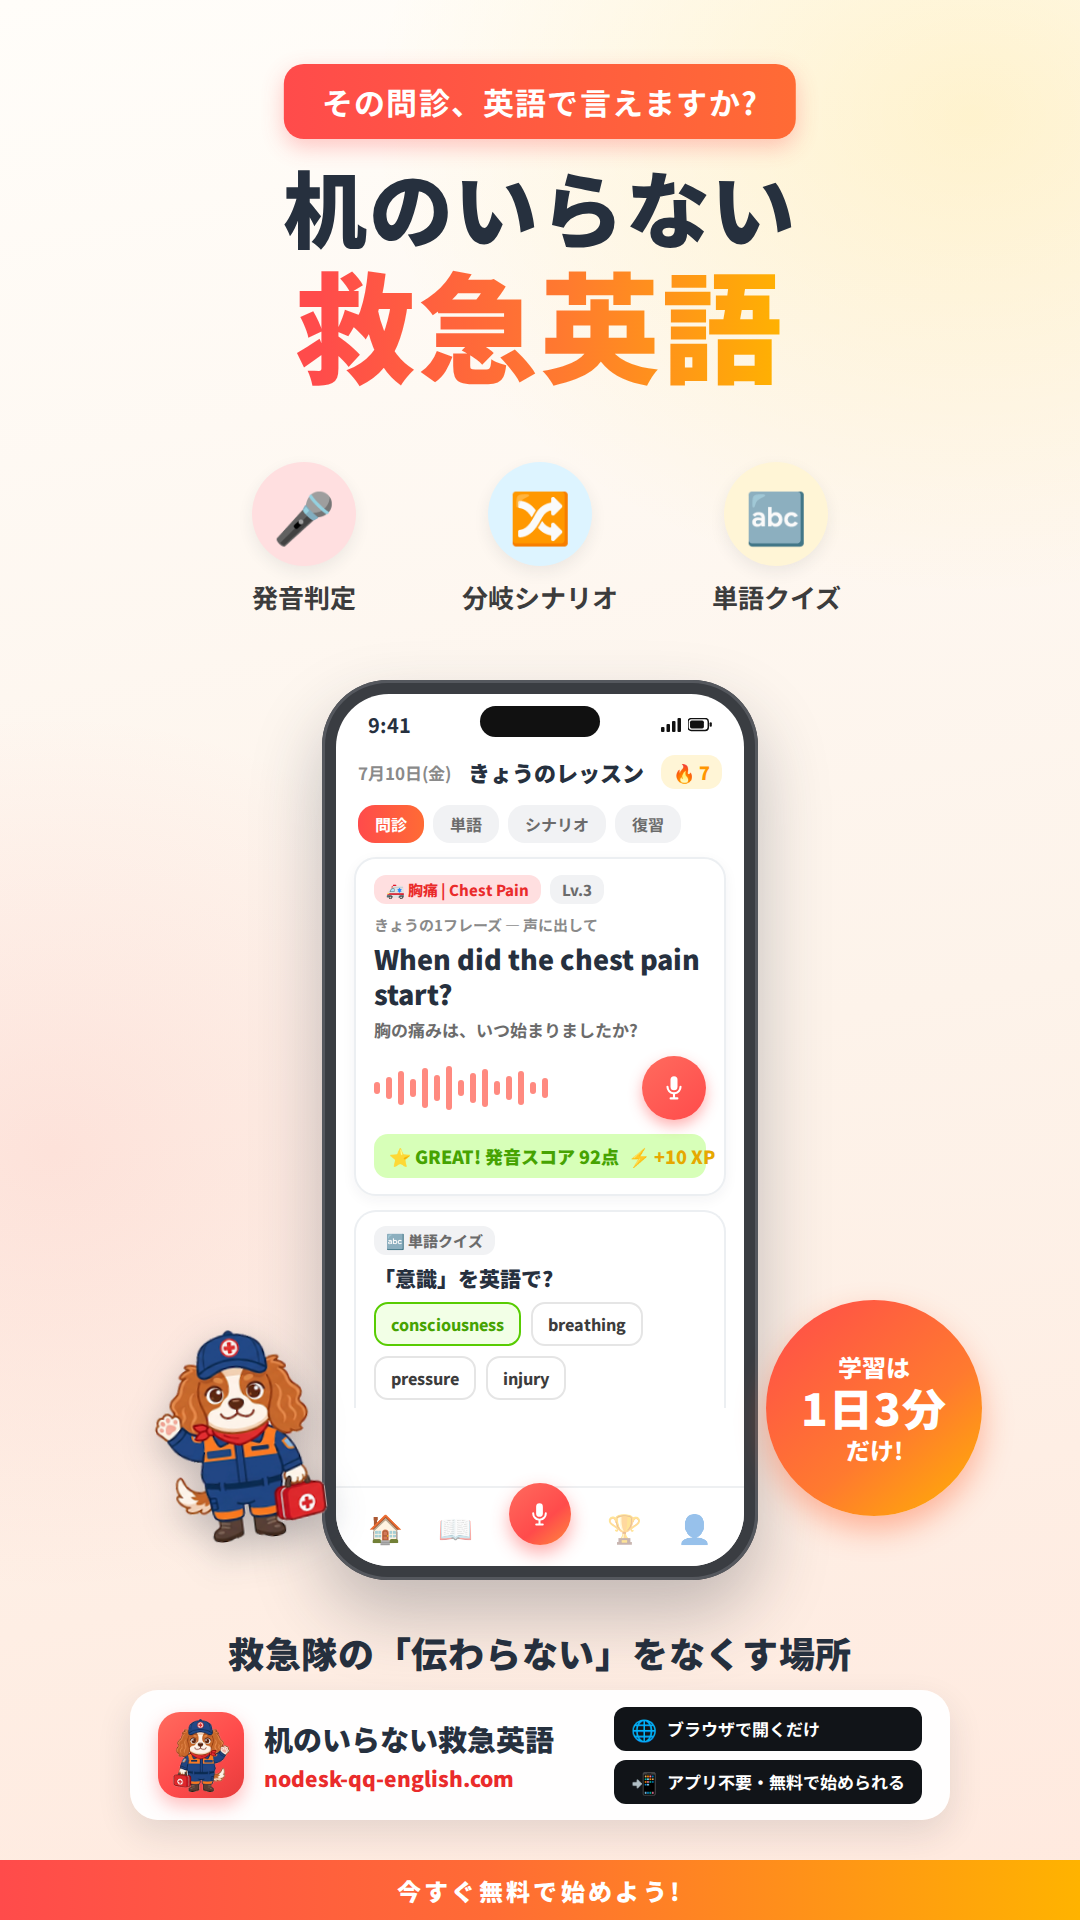
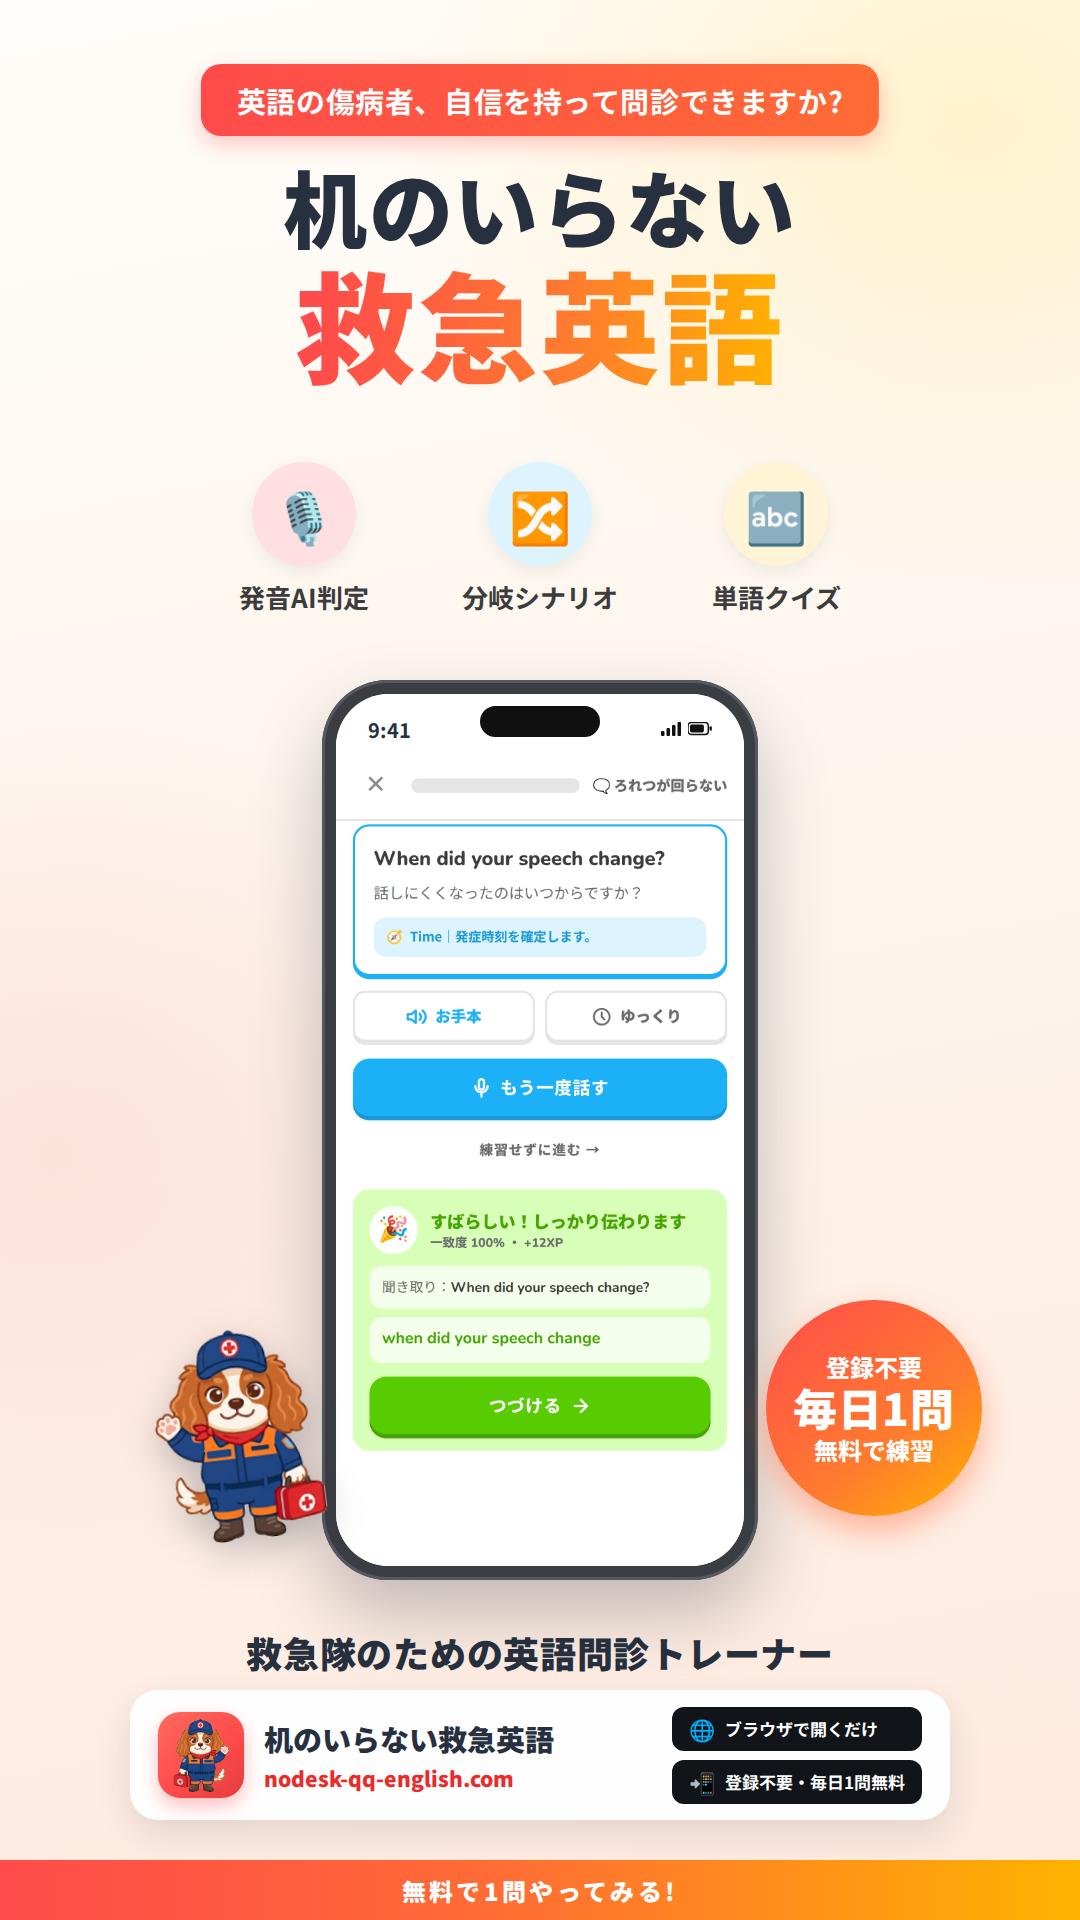
宣伝画像のスマホ画面を実アプリのスクリーンショットに差し替え
- Playwrightで実アプリ(トレーナー/ホーム/単語クイズ)を撮影し、
  モックアップではなく本物のUIを表示(発音判定成功画面・一致度100%)
- コピーをアプリ/LPの実文言に統一(「英語の傷病者、自信を持って
  問診できますか?」「傷病者の返答」「登録不要・毎日1問無料」
  「OPQRST・SAMPLEの型」「レベル別パス全10段階」等)
- 撮り直し手順をREADMEに記載

Claude-Session: https://claude.ai/code/session_01L5C1J8Vtmn3Ar3aXN2XYS3

diff --git a/marketing/promo/promo-square.html b/marketing/promo/promo-square.html
@@ -28,8 +28,8 @@
   .pill {
     position:absolute; top:44px; left:52px;
     background:linear-gradient(90deg,#ff4b4b,#ff6b35);
-    color:#fff; font-size:25px; font-weight:700; letter-spacing:.04em;
-    padding:12px 28px; border-radius:16px;
+    color:#fff; font-size:23px; font-weight:700; letter-spacing:.02em;
+    padding:12px 26px; border-radius:16px;
     box-shadow:0 8px 22px rgba(255,75,75,.30);
   }
 
@@ -64,7 +64,7 @@
     box-shadow:0 14px 34px rgba(38,48,62,.10);
     padding:14px 22px 0;
   }
-  .cta .lead { text-align:center; font-size:26px; font-weight:900; letter-spacing:.05em; margin-bottom:10px; }
+  .cta .lead { text-align:center; font-size:26px; font-weight:900; letter-spacing:.04em; margin-bottom:10px; }
   .cta .row { display:flex; align-items:center; gap:14px; }
   .cta .icon {
     width:74px; height:74px; border-radius:19px; flex:0 0 auto;
@@ -84,7 +84,7 @@
   .badge .bi { font-size:19px; }
   .badge .bt { font-size:15px; font-weight:700; white-space:nowrap; }
 
-  /* ── phone mockup ─────────────────────── */
+  /* ── phone mockup(実アプリのスクリーンショットを表示) ── */
   .phone {
     position:absolute; top:46px; left:650px; width:388px; height:800px;
     background:#3a3d42; border-radius:60px; padding:13px;
@@ -98,50 +98,8 @@
     position:absolute; top:11px; left:50%; transform:translateX(-50%);
     width:108px; height:28px; background:#111; border-radius:15px; z-index:9;
   }
-  .status { display:flex; justify-content:space-between; align-items:center; padding:14px 28px 2px; font-size:18px; font-weight:700; }
-  .apphead { display:flex; justify-content:space-between; align-items:center; padding:12px 20px 6px; }
-  .apphead .date { font-size:15px; font-weight:700; color:#8a8a8a; }
-  .apphead .title { font-size:20px; font-weight:900; }
-  .apphead .streak { font-size:16px; font-weight:900; color:#ff9600; background:#fff5d6; border-radius:13px; padding:3px 11px; }
-  .chips { display:flex; gap:8px; padding:6px 20px 10px; }
-  .chip { font-size:14px; font-weight:700; color:#6b6b6b; background:#f1f2f4; border-radius:15px; padding:6px 15px; }
-  .chip.on { color:#fff; background:linear-gradient(90deg,#ff4b4b,#ff6b35); }
-
-  .card { margin:2px 16px 12px; border:2px solid #eceff2; border-radius:20px; padding:14px 16px; box-shadow:0 4px 14px rgba(38,48,62,.05); background:#fff; }
-  .tags { display:flex; gap:8px; align-items:center; margin-bottom:9px; }
-  .tag-red { font-size:13px; font-weight:800; color:#ea2b2b; background:#ffdfe0; border-radius:11px; padding:3px 11px; }
-  .tag-gray { font-size:13px; font-weight:800; color:#6b6b6b; background:#f1f2f4; border-radius:11px; padding:3px 11px; }
-  .label { font-size:13px; font-weight:700; color:#8a8a8a; margin-bottom:5px; }
-  .en { font-size:24px; font-weight:900; line-height:1.3; }
-  .jp { font-size:15px; font-weight:700; color:#6b6b6b; margin-top:5px; }
-  .microw { display:flex; align-items:center; gap:12px; margin-top:12px; }
-  .wave { display:flex; align-items:center; gap:5px; flex:1; }
-  .wave i { display:block; width:5px; border-radius:3px; background:#ff8a80; }
-  .mic {
-    width:56px; height:56px; border-radius:50%; flex:0 0 auto;
-    background:linear-gradient(140deg,#ff6b5e,#ff4b4b); display:flex; align-items:center; justify-content:center;
-    box-shadow:0 6px 14px rgba(255,75,75,.42);
-  }
-  .score { margin-top:12px; background:#d7ffb8; border-radius:13px; padding:8px 13px; display:flex; align-items:center; gap:8px; font-size:16px; font-weight:900; color:#46a302; white-space:nowrap; }
-  .score .xp { margin-left:auto; color:#e6a800; }
-
-  .card2 { margin:0 16px; border:2px solid #eceff2; border-radius:20px 20px 0 0; border-bottom:none; padding:12px 16px 6px; }
-  .opts { display:flex; gap:9px; margin-top:9px; }
-  .opt { font-size:14px; font-weight:800; border:2px solid #e5e5e5; border-radius:13px; padding:7px 13px; color:#3c3c3c; white-space:nowrap; }
-  .opt.ok { border-color:#58cc02; color:#46a302; background:#f2ffe6; }
-
-  .nav {
-    position:absolute; bottom:0; left:0; right:0; height:72px; background:#fff;
-    border-top:2px solid #eef0f2; display:flex; align-items:center; justify-content:space-around; padding:0 12px;
-  }
-  .nav .ic { font-size:25px; opacity:.45; }
-  .nav .ic.on { opacity:1; }
-  .nav .plus {
-    width:56px; height:56px; border-radius:50%; margin-top:-24px;
-    background:linear-gradient(140deg,#ff6b5e,#ff4b4b 60%,#ff8a3d);
-    display:flex; align-items:center; justify-content:center;
-    box-shadow:0 8px 18px rgba(255,75,75,.45);
-  }
+  .sbar { height:50px; display:flex; justify-content:space-between; align-items:center; padding:12px 28px 0; font-size:18px; font-weight:700; background:#fff; }
+  .shot { display:block; width:362px; height:724px; object-fit:cover; object-position:top; }
 
   /* ── circle badge & mascot ────────────── */
   .bubble {
@@ -176,7 +134,7 @@
 </head>
 <body>
 
-  <div class="pill">その問診、英語で言えますか?</div>
+  <div class="pill">英語の傷病者、自信を持って問診できますか?</div>
 
   <div class="headline">
     <div class="l1">机のいらない</div>
@@ -184,23 +142,23 @@
   </div>
 
   <div class="feats">
-    <div class="feat"><div class="c">🎤</div><div class="t">発音判定</div></div>
+    <div class="feat"><div class="c">🎙️</div><div class="t">発音AI判定</div></div>
     <div class="feat"><div class="c">🔀</div><div class="t">分岐シナリオ</div></div>
     <div class="feat"><div class="c">🔤</div><div class="t">単語クイズ</div></div>
   </div>
 
-  <div class="sub">救急隊の「伝わらない」をなくす場所</div>
+  <div class="sub">救急隊のための英語問診トレーナー</div>
 
   <div class="checks">
-    <div class="check"><svg width="25" height="25" viewBox="0 0 26 26"><path d="M4 14 L10 20 L22 6" stroke="#ff4b4b" stroke-width="4.5" fill="none" stroke-linecap="round" stroke-linejoin="round"/></svg>英語の問診を音読 → AIが発音を採点</div>
-    <div class="check"><svg width="25" height="25" viewBox="0 0 26 26"><path d="M4 14 L10 20 L22 6" stroke="#ff4b4b" stroke-width="4.5" fill="none" stroke-linecap="round" stroke-linejoin="round"/></svg>患者の返答で変わる分岐シナリオ</div>
-    <div class="check"><svg width="25" height="25" viewBox="0 0 26 26"><path d="M4 14 L10 20 L22 6" stroke="#ff4b4b" stroke-width="4.5" fill="none" stroke-linecap="round" stroke-linejoin="round"/></svg>救急の英単語405語を4択クイズで</div>
-    <div class="check"><svg width="25" height="25" viewBox="0 0 26 26"><path d="M4 14 L10 20 L22 6" stroke="#ff4b4b" stroke-width="4.5" fill="none" stroke-linecap="round" stroke-linejoin="round"/></svg>Lv1〜10、クリアで次のレベル解放</div>
-    <div class="check"><svg width="25" height="25" viewBox="0 0 26 26"><path d="M4 14 L10 20 L22 6" stroke="#ff4b4b" stroke-width="4.5" fill="none" stroke-linecap="round" stroke-linejoin="round"/></svg>ストリーク・バッジ・学習カレンダー</div>
+    <div class="check"><svg width="25" height="25" viewBox="0 0 26 26"><path d="M4 14 L10 20 L22 6" stroke="#ff4b4b" stroke-width="4.5" fill="none" stroke-linecap="round" stroke-linejoin="round"/></svg>英語の問診を音読、発音はAIが自動判定</div>
+    <div class="check"><svg width="25" height="25" viewBox="0 0 26 26"><path d="M4 14 L10 20 L22 6" stroke="#ff4b4b" stroke-width="4.5" fill="none" stroke-linecap="round" stroke-linejoin="round"/></svg>OPQRST・SAMPLEの型で300シナリオ</div>
+    <div class="check"><svg width="25" height="25" viewBox="0 0 26 26"><path d="M4 14 L10 20 L22 6" stroke="#ff4b4b" stroke-width="4.5" fill="none" stroke-linecap="round" stroke-linejoin="round"/></svg>傷病者の返答で変わる分岐シナリオ</div>
+    <div class="check"><svg width="25" height="25" viewBox="0 0 26 26"><path d="M4 14 L10 20 L22 6" stroke="#ff4b4b" stroke-width="4.5" fill="none" stroke-linecap="round" stroke-linejoin="round"/></svg>救急単語405語・忘却曲線で復習</div>
+    <div class="check"><svg width="25" height="25" viewBox="0 0 26 26"><path d="M4 14 L10 20 L22 6" stroke="#ff4b4b" stroke-width="4.5" fill="none" stroke-linecap="round" stroke-linejoin="round"/></svg>レベル別パス・ストリークで毎日続く</div>
   </div>
 
   <div class="cta">
-    <div class="lead"><span class="grad-text">今すぐ無料で始めよう!</span></div>
+    <div class="lead"><span class="grad-text">無料で1問やってみる!</span></div>
     <div class="row">
       <div class="icon"><img src="../../logo.png" alt=""></div>
       <div class="name">
@@ -209,7 +167,7 @@
       </div>
       <div class="badges">
         <div class="badge"><span class="bi">🌐</span><span class="bt">ブラウザで開くだけ</span></div>
-        <div class="badge"><span class="bi">📲</span><span class="bt">アプリ不要・無料</span></div>
+        <div class="badge"><span class="bi">📲</span><span class="bt">登録不要・アプリ不要</span></div>
       </div>
     </div>
   </div>
@@ -217,58 +175,24 @@
   <div class="phone">
     <div class="screen">
       <div class="notch"></div>
-      <div class="status">
+      <div class="sbar">
         <span>9:41</span>
         <span style="display:flex;gap:7px;align-items:center;">
           <svg width="20" height="14" viewBox="0 0 20 14"><rect x="0" y="9" width="3.5" height="5" rx="1" fill="#111"/><rect x="5.5" y="6" width="3.5" height="8" rx="1" fill="#111"/><rect x="11" y="3" width="3.5" height="11" rx="1" fill="#111"/><rect x="16.5" y="0" width="3.5" height="14" rx="1" fill="#111"/></svg>
           <svg width="24" height="14" viewBox="0 0 26 14"><rect x="0" y="0" width="22" height="13" rx="3.5" stroke="#111" stroke-width="1.6" fill="none"/><rect x="2.2" y="2.2" width="15" height="8.6" rx="1.8" fill="#111"/><rect x="23.4" y="4" width="2.4" height="5" rx="1.2" fill="#111"/></svg>
         </span>
       </div>
-      <div class="apphead">
-        <span class="date">7月10日(金)</span>
-        <span class="title">きょうのレッスン</span>
-        <span class="streak">🔥 7</span>
-      </div>
-      <div class="chips">
-        <span class="chip on">問診</span><span class="chip">単語</span><span class="chip">シナリオ</span><span class="chip">復習</span>
-      </div>
-
-      <div class="card">
-        <div class="tags"><span class="tag-red">🚑 胸痛 | Chest Pain</span><span class="tag-gray">Lv.3</span></div>
-        <div class="label">きょうの1フレーズ — 声に出して</div>
-        <div class="en">When did the chest pain start?</div>
-        <div class="jp">胸の痛みは、いつ始まりましたか?</div>
-        <div class="microw">
-          <div class="wave">
-            <i style="height:11px"></i><i style="height:20px"></i><i style="height:31px"></i><i style="height:17px"></i><i style="height:37px"></i><i style="height:24px"></i><i style="height:41px"></i><i style="height:15px"></i><i style="height:28px"></i><i style="height:35px"></i><i style="height:13px"></i><i style="height:22px"></i><i style="height:31px"></i><i style="height:11px"></i><i style="height:18px"></i>
-          </div>
-          <div class="mic"><svg width="26" height="26" viewBox="0 0 24 24" fill="#fff"><path d="M12 14a3 3 0 0 0 3-3V5a3 3 0 0 0-6 0v6a3 3 0 0 0 3 3z"/><path d="M18.5 11a.9.9 0 0 0-1.8 0 4.7 4.7 0 0 1-9.4 0 .9.9 0 0 0-1.8 0 6.5 6.5 0 0 0 5.6 6.4V20h-2a.9.9 0 1 0 0 1.8h5.8a.9.9 0 1 0 0-1.8h-2v-2.6A6.5 6.5 0 0 0 18.5 11z"/></svg></div>
-        </div>
-        <div class="score">⭐ GREAT! スコア92点 <span class="xp">⚡ +10 XP</span></div>
-      </div>
-
-      <div class="card2">
-        <div class="tags"><span class="tag-gray">🔤 単語クイズ</span></div>
-        <div class="en" style="font-size:19px;">「意識」を英語で?</div>
-        <div class="opts"><span class="opt ok">consciousness</span><span class="opt">breathing</span></div>
-        <div class="opts"><span class="opt">pressure</span><span class="opt">injury</span></div>
-      </div>
-
-      <div class="nav">
-        <span class="ic on">🏠</span><span class="ic">📖</span>
-        <span class="plus"><svg width="25" height="25" viewBox="0 0 24 24" fill="#fff"><path d="M12 14a3 3 0 0 0 3-3V5a3 3 0 0 0-6 0v6a3 3 0 0 0 3 3z"/><path d="M18.5 11a.9.9 0 0 0-1.8 0 4.7 4.7 0 0 1-9.4 0 .9.9 0 0 0-1.8 0 6.5 6.5 0 0 0 5.6 6.4V20h-2a.9.9 0 1 0 0 1.8h5.8a.9.9 0 1 0 0-1.8h-2v-2.6A6.5 6.5 0 0 0 18.5 11z"/></svg></span>
-        <span class="ic">🏆</span><span class="ic">👤</span>
-      </div>
+      <img class="shot" src="screens/judge.png" alt="">
     </div>
   </div>
 
   <img class="mascot" src="../../logo.png" alt="">
-  <div class="bubble"><span class="s">学習は</span><span class="b">1日3分</span><span class="s">だけ!</span></div>
+  <div class="bubble"><span class="s">登録不要</span><span class="b">毎日1問</span><span class="s">無料で練習</span></div>
 
   <div class="band">
-    <div class="col"><span class="ci">🎤</span><span class="ct"><span class="t">机がなくても<br>声だけで練習</span><span class="s">現場想定の問診を音読</span></span></div>
-    <div class="col"><span class="ci">🔥</span><span class="ct"><span class="t">ゲーム感覚で<br>毎日続く</span><span class="s">ストリーク・XP・バッジ</span></span></div>
-    <div class="col"><span class="ci">📶</span><span class="ct"><span class="t">オフラインでも<br>使える</span><span class="s">ブラウザだけ・記録は端末に</span></span></div>
+    <div class="col"><span class="ci">🎙️</span><span class="ct"><span class="t">発音はAIが<br>自動判定</span><span class="s">マイクなしでもスキップOK</span></span></div>
+    <div class="col"><span class="ci">🪜</span><span class="ct"><span class="t">レベル別パス<br>全10段階</span><span class="s">クリアで次のレベルが解放</span></span></div>
+    <div class="col"><span class="ci">📱</span><span class="ct"><span class="t">スマホだけで<br>完結</span><span class="s">ブラウザで開くだけ・PWA対応</span></span></div>
   </div>
 
 </body>

diff --git a/marketing/promo/promo-story.html b/marketing/promo/promo-story.html
@@ -27,8 +27,8 @@
   .pill {
     position:absolute; top:64px; left:50%; transform:translateX(-50%);
     background:linear-gradient(90deg,#ff4b4b,#ff6b35);
-    color:#fff; font-size:31px; font-weight:700; letter-spacing:.04em;
-    padding:15px 38px; border-radius:20px; white-space:nowrap;
+    color:#fff; font-size:29px; font-weight:700; letter-spacing:.02em;
+    padding:15px 36px; border-radius:20px; white-space:nowrap;
     box-shadow:0 8px 22px rgba(255,75,75,.30);
   }
 
@@ -48,7 +48,7 @@
   .feat:nth-child(3) .c { background:#fff5d6; }
   .feat .t { font-size:26px; font-weight:700; color:#3c3c3c; white-space:nowrap; }
 
-  /* ── phone mockup ─────────────────────── */
+  /* ── phone mockup(実アプリのスクリーンショットを表示) ── */
   .phone {
     position:absolute; top:680px; left:322px; width:436px; height:900px;
     background:#3a3d42; border-radius:66px; padding:14px;
@@ -60,50 +60,8 @@
     position:absolute; top:12px; left:50%; transform:translateX(-50%);
     width:120px; height:31px; background:#111; border-radius:16px; z-index:9;
   }
-  .status { display:flex; justify-content:space-between; align-items:center; padding:16px 32px 2px; font-size:20px; font-weight:700; }
-  .apphead { display:flex; justify-content:space-between; align-items:center; padding:14px 22px 8px; }
-  .apphead .date { font-size:17px; font-weight:700; color:#8a8a8a; }
-  .apphead .title { font-size:22px; font-weight:900; }
-  .apphead .streak { font-size:18px; font-weight:900; color:#ff9600; background:#fff5d6; border-radius:14px; padding:4px 12px; }
-  .chips { display:flex; gap:9px; padding:8px 22px 12px; }
-  .chip { font-size:16px; font-weight:700; color:#6b6b6b; background:#f1f2f4; border-radius:17px; padding:7px 17px; }
-  .chip.on { color:#fff; background:linear-gradient(90deg,#ff4b4b,#ff6b35); }
-
-  .card { margin:2px 18px 14px; border:2px solid #eceff2; border-radius:22px; padding:16px 18px; box-shadow:0 4px 14px rgba(38,48,62,.05); background:#fff; }
-  .tags { display:flex; gap:9px; align-items:center; margin-bottom:10px; }
-  .tag-red { font-size:15px; font-weight:800; color:#ea2b2b; background:#ffdfe0; border-radius:12px; padding:4px 12px; }
-  .tag-gray { font-size:15px; font-weight:800; color:#6b6b6b; background:#f1f2f4; border-radius:12px; padding:4px 12px; }
-  .label { font-size:15px; font-weight:700; color:#8a8a8a; margin-bottom:6px; }
-  .en { font-size:27px; font-weight:900; line-height:1.3; }
-  .jp { font-size:17px; font-weight:700; color:#6b6b6b; margin-top:6px; }
-  .microw { display:flex; align-items:center; gap:14px; margin-top:14px; }
-  .wave { display:flex; align-items:center; gap:6px; flex:1; }
-  .wave i { display:block; width:6px; border-radius:3px; background:#ff8a80; }
-  .mic {
-    width:64px; height:64px; border-radius:50%; flex:0 0 auto;
-    background:linear-gradient(140deg,#ff6b5e,#ff4b4b); display:flex; align-items:center; justify-content:center;
-    box-shadow:0 6px 14px rgba(255,75,75,.42);
-  }
-  .score { margin-top:14px; background:#d7ffb8; border-radius:14px; padding:9px 15px; display:flex; align-items:center; gap:9px; font-size:18px; font-weight:900; color:#46a302; white-space:nowrap; }
-  .score .xp { margin-left:auto; color:#e6a800; }
-
-  .card2 { margin:0 18px; border:2px solid #eceff2; border-radius:22px 22px 0 0; border-bottom:none; padding:14px 18px 8px; }
-  .opts { display:flex; gap:10px; margin-top:10px; }
-  .opt { font-size:16px; font-weight:800; border:2px solid #e5e5e5; border-radius:14px; padding:8px 15px; color:#3c3c3c; white-space:nowrap; }
-  .opt.ok { border-color:#58cc02; color:#46a302; background:#f2ffe6; }
-
-  .nav {
-    position:absolute; bottom:0; left:0; right:0; height:80px; background:#fff;
-    border-top:2px solid #eef0f2; display:flex; align-items:center; justify-content:space-around; padding:0 14px;
-  }
-  .nav .ic { font-size:28px; opacity:.45; }
-  .nav .ic.on { opacity:1; }
-  .nav .plus {
-    width:62px; height:62px; border-radius:50%; margin-top:-26px;
-    background:linear-gradient(140deg,#ff6b5e,#ff4b4b 60%,#ff8a3d);
-    display:flex; align-items:center; justify-content:center;
-    box-shadow:0 8px 18px rgba(255,75,75,.45);
-  }
+  .sbar { height:56px; display:flex; justify-content:space-between; align-items:center; padding:14px 32px 0; font-size:20px; font-weight:700; background:#fff; }
+  .shot { display:block; width:408px; height:816px; object-fit:cover; object-position:top; }
 
   .bubble {
     position:absolute; top:1300px; left:766px; width:216px; height:216px; border-radius:50%;
@@ -154,7 +112,7 @@
 </head>
 <body>
 
-  <div class="pill">その問診、英語で言えますか?</div>
+  <div class="pill">英語の傷病者、自信を持って問診できますか?</div>
 
   <div class="headline">
     <div class="l1">机のいらない</div>
@@ -162,7 +120,7 @@
   </div>
 
   <div class="feats">
-    <div class="feat"><div class="c">🎤</div><div class="t">発音判定</div></div>
+    <div class="feat"><div class="c">🎙️</div><div class="t">発音AI判定</div></div>
     <div class="feat"><div class="c">🔀</div><div class="t">分岐シナリオ</div></div>
     <div class="feat"><div class="c">🔤</div><div class="t">単語クイズ</div></div>
   </div>
@@ -170,55 +128,21 @@
   <div class="phone">
     <div class="screen">
       <div class="notch"></div>
-      <div class="status">
+      <div class="sbar">
         <span>9:41</span>
         <span style="display:flex;gap:7px;align-items:center;">
           <svg width="20" height="14" viewBox="0 0 20 14"><rect x="0" y="9" width="3.5" height="5" rx="1" fill="#111"/><rect x="5.5" y="6" width="3.5" height="8" rx="1" fill="#111"/><rect x="11" y="3" width="3.5" height="11" rx="1" fill="#111"/><rect x="16.5" y="0" width="3.5" height="14" rx="1" fill="#111"/></svg>
           <svg width="24" height="14" viewBox="0 0 26 14"><rect x="0" y="0" width="22" height="13" rx="3.5" stroke="#111" stroke-width="1.6" fill="none"/><rect x="2.2" y="2.2" width="15" height="8.6" rx="1.8" fill="#111"/><rect x="23.4" y="4" width="2.4" height="5" rx="1.2" fill="#111"/></svg>
         </span>
       </div>
-      <div class="apphead">
-        <span class="date">7月10日(金)</span>
-        <span class="title">きょうのレッスン</span>
-        <span class="streak">🔥 7</span>
-      </div>
-      <div class="chips">
-        <span class="chip on">問診</span><span class="chip">単語</span><span class="chip">シナリオ</span><span class="chip">復習</span>
-      </div>
-
-      <div class="card">
-        <div class="tags"><span class="tag-red">🚑 胸痛 | Chest Pain</span><span class="tag-gray">Lv.3</span></div>
-        <div class="label">きょうの1フレーズ — 声に出して</div>
-        <div class="en">When did the chest pain start?</div>
-        <div class="jp">胸の痛みは、いつ始まりましたか?</div>
-        <div class="microw">
-          <div class="wave">
-            <i style="height:12px"></i><i style="height:22px"></i><i style="height:34px"></i><i style="height:18px"></i><i style="height:40px"></i><i style="height:26px"></i><i style="height:44px"></i><i style="height:16px"></i><i style="height:30px"></i><i style="height:38px"></i><i style="height:14px"></i><i style="height:24px"></i><i style="height:34px"></i><i style="height:12px"></i><i style="height:20px"></i>
-          </div>
-          <div class="mic"><svg width="28" height="28" viewBox="0 0 24 24" fill="#fff"><path d="M12 14a3 3 0 0 0 3-3V5a3 3 0 0 0-6 0v6a3 3 0 0 0 3 3z"/><path d="M18.5 11a.9.9 0 0 0-1.8 0 4.7 4.7 0 0 1-9.4 0 .9.9 0 0 0-1.8 0 6.5 6.5 0 0 0 5.6 6.4V20h-2a.9.9 0 1 0 0 1.8h5.8a.9.9 0 1 0 0-1.8h-2v-2.6A6.5 6.5 0 0 0 18.5 11z"/></svg></div>
-        </div>
-        <div class="score">⭐ GREAT! 発音スコア 92点 <span class="xp">⚡ +10 XP</span></div>
-      </div>
-
-      <div class="card2">
-        <div class="tags"><span class="tag-gray">🔤 単語クイズ</span></div>
-        <div class="en" style="font-size:21px;">「意識」を英語で?</div>
-        <div class="opts"><span class="opt ok">consciousness</span><span class="opt">breathing</span></div>
-        <div class="opts"><span class="opt">pressure</span><span class="opt">injury</span></div>
-      </div>
-
-      <div class="nav">
-        <span class="ic on">🏠</span><span class="ic">📖</span>
-        <span class="plus"><svg width="27" height="27" viewBox="0 0 24 24" fill="#fff"><path d="M12 14a3 3 0 0 0 3-3V5a3 3 0 0 0-6 0v6a3 3 0 0 0 3 3z"/><path d="M18.5 11a.9.9 0 0 0-1.8 0 4.7 4.7 0 0 1-9.4 0 .9.9 0 0 0-1.8 0 6.5 6.5 0 0 0 5.6 6.4V20h-2a.9.9 0 1 0 0 1.8h5.8a.9.9 0 1 0 0-1.8h-2v-2.6A6.5 6.5 0 0 0 18.5 11z"/></svg></span>
-        <span class="ic">🏆</span><span class="ic">👤</span>
-      </div>
+      <img class="shot" src="screens/judge.png" alt="">
     </div>
   </div>
 
   <img class="mascot" src="../../logo.png" alt="">
-  <div class="bubble"><span class="s">学習は</span><span class="b">1日3分</span><span class="s">だけ!</span></div>
+  <div class="bubble"><span class="s">登録不要</span><span class="b">毎日1問</span><span class="s">無料で練習</span></div>
 
-  <div class="sub">救急隊の「伝わらない」をなくす場所</div>
+  <div class="sub">救急隊のための英語問診トレーナー</div>
 
   <div class="cta">
     <div class="icon"><img src="../../logo.png" alt=""></div>
@@ -228,11 +152,11 @@
     </div>
     <div class="badges">
       <div class="badge"><span class="bi">🌐</span><span class="bt">ブラウザで開くだけ</span></div>
-      <div class="badge"><span class="bi">📲</span><span class="bt">アプリ不要・無料で始められる</span></div>
+      <div class="badge"><span class="bi">📲</span><span class="bt">登録不要・毎日1問無料</span></div>
     </div>
   </div>
 
-  <div class="band">今すぐ無料で始めよう!</div>
+  <div class="band">無料で1問やってみる!</div>
 
 </body>
 </html>